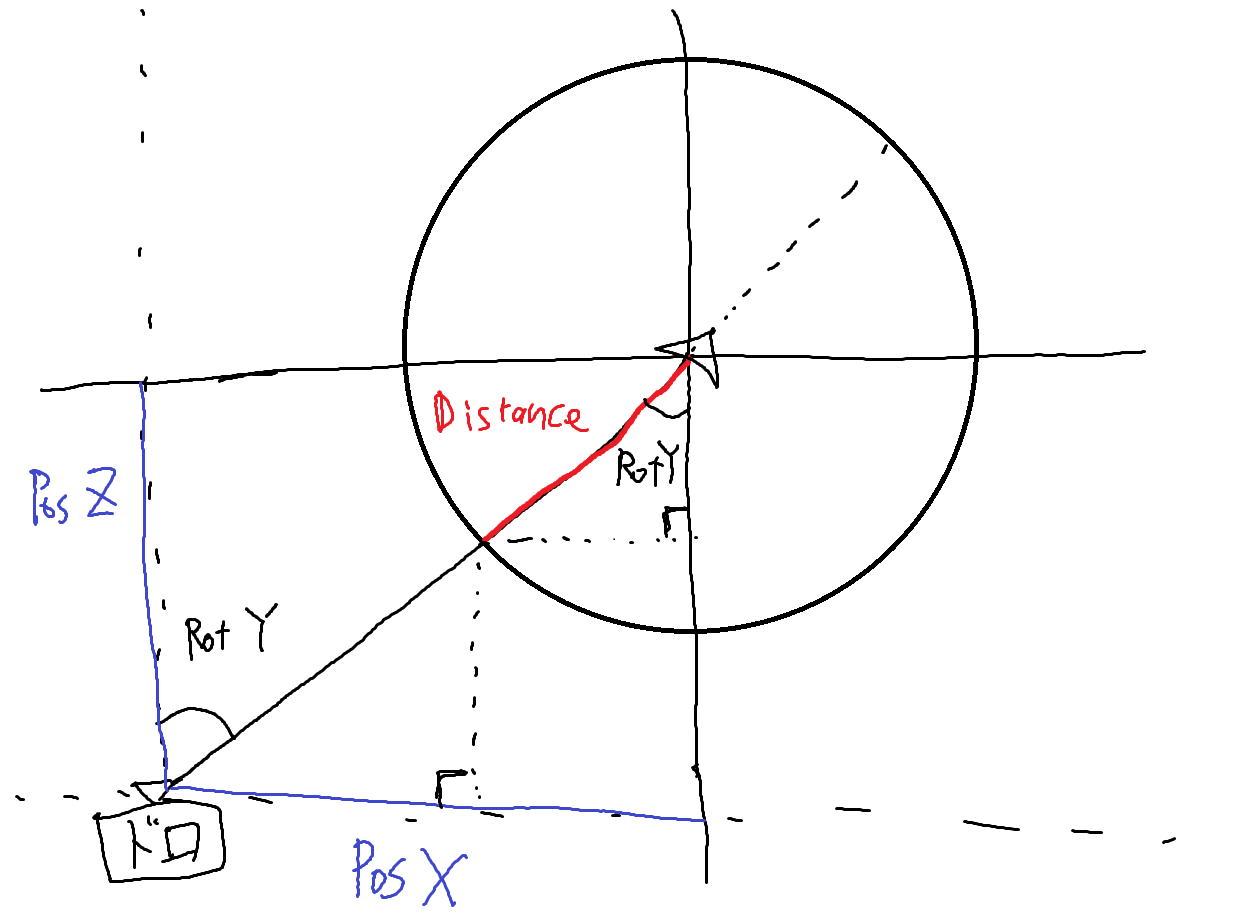
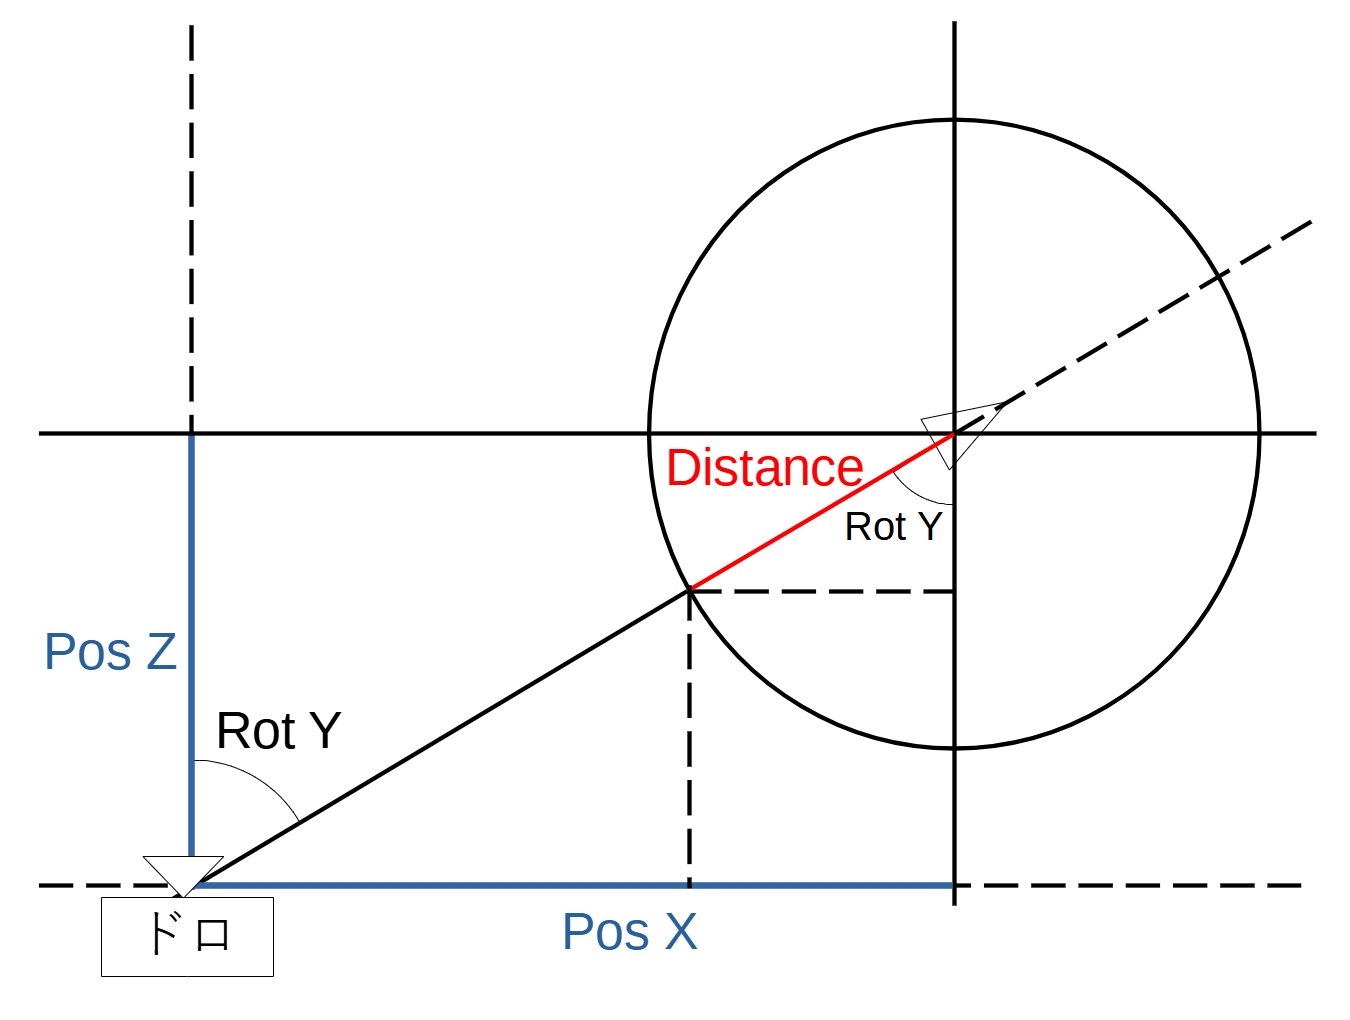
画像の差し替えと記事の修正

diff --git a/content/japanese/Tello/AutoTracking/Weighting.jp.md b/content/japanese/Tello/AutoTracking/Weighting.jp.md
@@ -1,6 +1,6 @@
 ---
 # 記事タイトルはこちら
-title: "2.重みづけをした実際の移動距離の計算"
+title: "重みづけをした実際の移動距離の計算"
 # 投稿日時をご記入ください
 date: 2022-03-22T15:02:35+09:00
 # trueにすると下書きとして非表示。falseにすると記事が表示されます。
@@ -9,6 +9,7 @@ draft: false
 keywords: ["Tello","追従","計算式"]
 # 以下は著者名タグです。著者名の苗字をローマ字で記入してください。
 Author: "ban"
+weight: 2
 ---
 <script type="text/javascript" async
   src="https://cdnjs.cloudflare.com/ajax/libs/mathjax/2.7.1/MathJax.js?config=TeX-AMS-MML_HTMLorMML">
@@ -39,7 +40,7 @@ Author: "ban"
   });
 </script> 
 
-『1.移動距離の計算について』で算出した値を用いて実際に移動する距離を求める。  
+『移動距離の計算について』で算出した値を用いて実際に移動する距離を求める。  
 重みづけを行うことによって**過度な移動を防いだり、ドローン視点の映像を安定させること**を目的とした。実際、**安定した映像の取得は実現できたが、それと両立したドローンの安定した追従がまだ完璧に出来ていない**ため、改善の余地があることに留意する。  
 
 ### 「TelloRequestCalculation02.cs」内の説明  

diff --git a/content/japanese/Tello/AutoTracking/Calculation.jp.md b/content/japanese/Tello/AutoTracking/Calculation.jp.md
@@ -1,6 +1,6 @@
 ---
 # 記事タイトルはこちら
-title: "1.移動距離の計算について"
+title: "移動距離の計算について"
 # 投稿日時をご記入ください
 date: 2022-03-15T14:34:00+09:00
 # trueにすると下書きとして非表示。falseにすると記事が表示されます。
@@ -9,6 +9,7 @@ draft: false
 keywords: ["Tello","追従","計算式"]
 # 以下は著者名タグです。著者名の苗字をローマ字で記入してください。
 Author: "ban"
+weight: 1
 ---
 <script type="text/javascript" async
   src="https://cdnjs.cloudflare.com/ajax/libs/mathjax/2.7.1/MathJax.js?config=TeX-AMS-MML_HTMLorMML">
@@ -39,7 +40,7 @@ Author: "ban"
   });
 </script> 
 
-『2.移動距離に関する制御のコード』では「他のファイルで計算された」と表記したが、その箇所に関しての説明をここで行う。  
+『移動距離に関する制御のコード』では「他のファイルで計算された」と表記したが、その箇所に関しての説明をここで行う。  
 移動距離の計算は「TelloRequestCalculation02.cs」で行われており、前後移動、左右移動、旋回の3つについての移動距離の計算を行う。
 
 #### 前提の説明  

diff --git a/content/japanese/Tello/TelloCode/move_cal.jp.md b/content/japanese/Tello/TelloCode/move_cal.jp.md
@@ -1,6 +1,6 @@
 ---
 # 記事タイトルはこちら
-title: "2.移動距離に関する制御のコード"
+title: "移動距離に関する制御のコード"
 # 投稿日時をご記入ください
 date: 2021-12-25T08:59:39+09:00
 # trueにすると下書きとして非表示。falseにすると記事が表示されます。
@@ -9,7 +9,6 @@ draft: false
 keywords: ["Tello","自動追従"]
 # 以下は著者名タグです。著者名の苗字をローマ字で記入してください。
 Author: "ban"
-# 以下は目次において何番目に表示するか決めるタグです。
 weight: 2
 ---
 

diff --git a/content/japanese/Tello/TelloCode/Controller.jp.md b/content/japanese/Tello/TelloCode/Controller.jp.md
@@ -1,6 +1,6 @@
 ---
 # 記事タイトルはこちら
-title: "1.主となる制御のコード"
+title: "主となる制御のコード"
 # 投稿日時をご記入ください
 date: 2022-02-22T06:50:26+09:00
 # trueにすると下書きとして非表示。falseにすると記事が表示されます。
@@ -9,7 +9,6 @@ draft: false
 keywords: ["Tello","tello","ドローン","制御"]
 # 以下は著者名タグです。著者名の苗字をローマ字で記入してください。
 Author: "ban"
-# 以下は目次において何番目に表示するか決めるタグです。
 weight: 1
 ---
 

diff --git a/content/japanese/Tello/Tello/Modding.jp.md b/content/japanese/Tello/Tello/Modding.jp.md
@@ -1,6 +1,6 @@
 ---
 # 記事タイトルはこちら
-title: "2.Telloの改造"
+title: "Telloの改造"
 # 投稿日時をご記入ください
 date: 2022-02-22T06:50:26+09:00
 # trueにすると下書きとして非表示。falseにすると記事が表示されます。

diff --git a/content/japanese/Tello/Tello/Specification.jp.md b/content/japanese/Tello/Tello/Specification.jp.md
@@ -1,6 +1,6 @@
 ---
 # 記事タイトルはこちら
-title: "1.基本性能"
+title: "基本性能"
 # 投稿日時をご記入ください
 date: 2022-02-22T06:50:26+09:00
 # trueにすると下書きとして非表示。falseにすると記事が表示されます。
